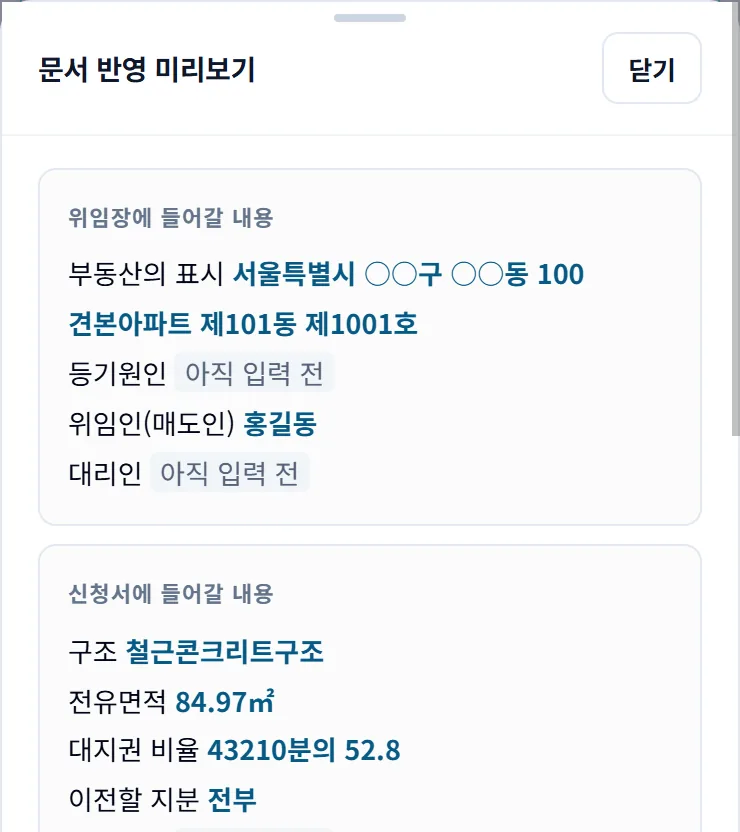
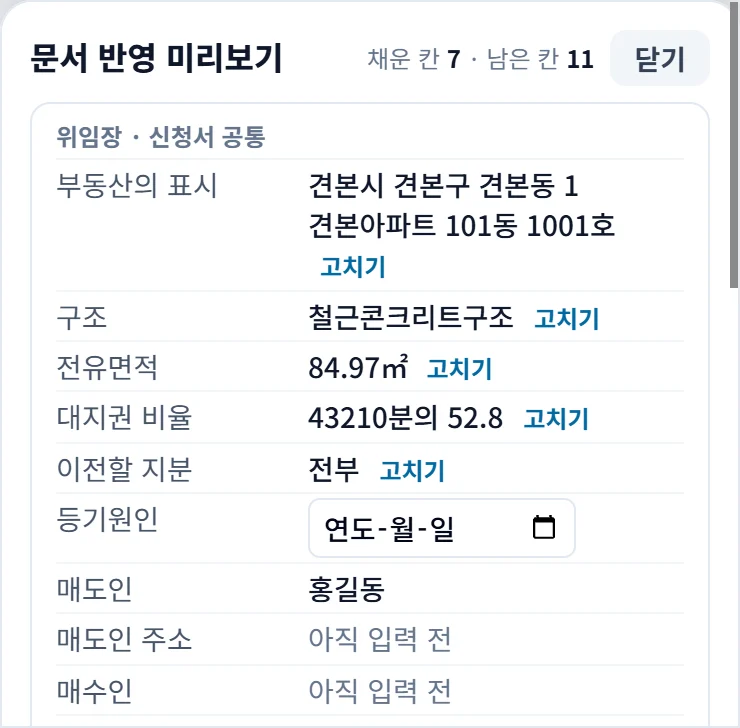
feat: 가이드 단계 그림에 브라우저 창 틀(점 3개 + 실제 사이트 주소) · 홈 시연 화면을 지금 서류 작성 화면으로 교체 — PC 바탕(1440px 화면 x55~1385·y418~1186 → 1800×1040)·휴대폰 첫 화면·판독 후·미리보기 시트(370×364로 변경)를 새로 찍고, 끌어다 놓기 칸·판독 중 표시·채워지는 6칸·집계(채운 칸 1→7 · 남은 칸 17→11, 실측)·휴대폰 막대·닫기 좌표를 새 화면 실측 위치로 다시 맞춤. 견본 값만 사용

diff --git a/index.html b/index.html
@@ -152,19 +152,21 @@ header{background:var(--bg)}
 /* 시연 레이어 — 좌표는 캡처 1800×1040 기준 %. 글자 크기는 프레임 폭(cqw) 비례라 캡처 글씨와 같이 줄어든다 */
 #hapanel-transfer{position:relative;container-type:inline-size}
 .hd{position:absolute;inset:0;pointer-events:none;font-family:inherit}
-.hd-dz{position:absolute;left:3.1%;top:25%;width:59.8%;height:38.5%;border:2px solid #0369A1;border-radius:1cqw;background:rgba(3,105,161,.07);opacity:0;transition:opacity .25s}
+.hd-dz{position:absolute;left:7.22%;top:16.93%;width:53.98%;height:27.99%;border:2px solid #0369A1;border-radius:1cqw;background:rgba(3,105,161,.07);opacity:0;transition:opacity .25s}
 .hd-file{position:absolute;left:80%;top:88%;display:flex;align-items:flex-start;opacity:0;transform:translate(-50%,-50%);transition:left 1.1s cubic-bezier(.4,0,.2,1),top 1.1s cubic-bezier(.4,0,.2,1),opacity .3s,transform .3s}
 .hd-doc{display:inline-flex;align-items:center;gap:.6cqw;background:#fff;border:1px solid #CBD5E1;border-radius:.6cqw;padding:.6cqw 1cqw;font-size:1.05cqw;font-weight:700;color:#0F172A;white-space:nowrap;box-shadow:0 6px 16px rgba(15,23,42,.18)}
 .hd-doc i{font-style:normal;font-size:.8cqw;font-weight:800;color:#fff;background:#DC2626;border-radius:.3cqw;padding:.15cqw .4cqw}
 .hd-cur{width:2cqw;height:2cqw;margin:1.6cqw 0 0 -.6cqw;filter:drop-shadow(0 1px 1px rgba(0,0,0,.25))}
-.hd-st{position:absolute;left:33%;top:58.5%;transform:translate(-50%,-50%);background:#0F172A;color:#fff;font-size:1.05cqw;font-weight:700;padding:.5cqw 1.2cqw;border-radius:2cqw;white-space:nowrap;opacity:0;transition:opacity .25s}
+.hd-st{position:absolute;left:34.21%;top:30.92%;transform:translate(-50%,-50%);background:#0F172A;color:#fff;font-size:1.05cqw;font-weight:700;padding:.5cqw 1.2cqw;border-radius:2cqw;white-space:nowrap;opacity:0;transition:opacity .25s}
 .hd-v{position:absolute;height:3.1%;min-width:6.8%;display:flex;align-items:center;padding:0 .3cqw;background:#FCFCFB;color:#075985;font-size:1.12cqw;font-weight:700;white-space:nowrap;opacity:0;transform:translateY(.3cqw);transition:opacity .3s,transform .3s}
 .hd-n{position:absolute;right:2.6%;width:3.6%;height:3.2%;display:flex;align-items:center;justify-content:flex-end;background:#fff;font-family:'SFMono-Regular',Consolas,monospace;font-size:1.05cqw;font-weight:700;opacity:0}
-.hd-n.b{color:#047857}.hd-n.a{color:#B45309}.hd-n.c{color:#64748B}
+.hd-n.b,.hd-n.a{color:#0F172A}
+.hd-v{width:16.39%;height:2.6%;background:#fff;color:#0F172A;font-size:1.05cqw;font-weight:500;padding:0}
+.hd-n{right:auto!important;width:1.3%!important;height:2.4%!important;justify-content:flex-start!important;font-family:inherit!important;font-size:.95cqw!important;font-weight:700!important}
 .hd-tag{position:absolute;right:1.2%;top:1.2%;font-size:.9cqw;font-weight:700;color:#475569;background:rgba(241,245,249,.92);border:1px solid #CBD5E1;border-radius:1cqw;padding:.25cqw .8cqw;opacity:0;transition:opacity .3s}
 .hd.on .hd-tag,.hd.on .hd-n{opacity:1}
 .hd.over .hd-dz{opacity:1}
-.hd.go .hd-file{left:33%;top:41%;opacity:1}
+.hd.go .hd-file{left:34.21%;top:30.92%;opacity:1}
 .hd.drop .hd-file{opacity:0;transform:translate(-50%,-50%) scale(.6)}
 .hd.read .hd-st{opacity:1}
 .hd-v.in{opacity:1;transform:none}
@@ -176,17 +178,17 @@ header{background:var(--bg)}
   .hdm{display:block;position:absolute;inset:0;pointer-events:none;overflow:hidden}
   .ha-frame .hdm img{position:absolute;left:0;width:100%;aspect-ratio:auto}
   .hdm-b{top:0;height:100%;opacity:0;transition:opacity .35s}
-  .hdm-dz{position:absolute;left:6.8%;top:23.2%;width:86.5%;height:50.8%;border:2px solid #0369A1;border-radius:10px;background:rgba(3,105,161,.08);opacity:0;transition:opacity .25s}
+  .hdm-dz{position:absolute;left:8.38%;top:23.08%;width:83.24%;height:45.38%;border:2px solid #0369A1;border-radius:10px;background:rgba(3,105,161,.08);opacity:0;transition:opacity .25s}
   .hdm-file{position:absolute;left:50%;top:106%;transform:translate(-50%,-50%);transition:top 1s cubic-bezier(.4,0,.2,1),opacity .3s,transform .3s}
   .hdm-doc{display:inline-flex;align-items:center;gap:6px;background:#fff;border:1px solid #CBD5E1;border-radius:8px;padding:7px 10px;font-size:12px;font-weight:700;color:#0F172A;white-space:nowrap;box-shadow:0 6px 16px rgba(15,23,42,.18)}
   .hdm-doc i{font-style:normal;font-size:12px;font-weight:800;color:#fff;background:#DC2626;border-radius:4px;padding:1px 5px}
-  .hdm-st{position:absolute;left:50%;top:45%;transform:translate(-50%,-50%);background:#0F172A;color:#fff;font-size:12px;font-weight:700;padding:6px 14px;border-radius:16px;white-space:nowrap;opacity:0;transition:opacity .25s}
-  .hdm-pr{position:absolute;left:10.8%;top:68.1%;width:78.4%;height:5px;background:#E2E8F0;border-radius:3px;overflow:hidden;opacity:0}
+  .hdm-st{position:absolute;left:50%;top:45.77%;transform:translate(-50%,-50%);background:#0F172A;color:#fff;font-size:12px;font-weight:700;padding:6px 14px;border-radius:16px;white-space:nowrap;opacity:0;transition:opacity .25s}
+  .hdm-pr{position:absolute;left:12%;top:63.1%;width:76%;height:5px;background:#E2E8F0;border-radius:3px;overflow:hidden;opacity:0}
   .hdm-pr i{display:block;height:100%;width:0;background:#0369A1;transition:width 1.3s linear}
-  .hdm-tap{position:absolute;left:88.1%;top:93%;width:44px;height:44px;margin:-22px 0 0 -22px;border-radius:50%;background:rgba(255,255,255,.6);opacity:0}
+  .hdm-tap{position:absolute;left:85.68%;top:90.19%;width:44px;height:44px;margin:-22px 0 0 -22px;border-radius:50%;background:rgba(255,255,255,.6);opacity:0}
   .hdm-dim{position:absolute;inset:0;background:rgba(15,23,42,.45);opacity:0;transition:opacity .3s}
-  .hdm-sh{top:20%;height:80%;transform:translateY(100%);transition:transform .45s cubic-bezier(.2,.8,.2,1)}
-  .hdm.go .hdm-file{top:48%}
+  .hdm-sh{top:30%;height:70%;transform:translateY(100%);transition:transform .45s cubic-bezier(.2,.8,.2,1)}
+  .hdm.go .hdm-file{top:45.8%}
   .hdm.over .hdm-dz{opacity:1}
   .hdm.drop .hdm-file{opacity:0;transform:translate(-50%,-50%) scale(.6)}
   .hdm.read .hdm-st,.hdm.read .hdm-pr{opacity:1}
@@ -201,8 +203,8 @@ header{background:var(--bg)}
   .hdm-hit{display:block;position:absolute;z-index:2;background:transparent;border:0;padding:0;cursor:pointer;-webkit-tap-highlight-color:transparent;border-radius:12px}
   .hdm-hit[hidden]{display:none}
   .hdm-hit:focus-visible{outline:2px solid #7DD3FC;outline-offset:-2px}
-  .hdm-see{left:2.7%;top:88.1%;width:94.6%;height:10%}
-  .hdm-x{left:81.4%;top:23.1%;width:13.5%;height:6.9%}
+  .hdm-see{left:3.24%;top:85%;width:93.51%;height:10.38%}
+  .hdm-x{left:82.43%;top:32.88%;width:13.51%;height:5.38%}
   .hdm-ctl{display:flex;gap:6px;position:absolute;right:8px;top:6px;z-index:3;align-items:center}
   .hdm-tag{font-size:12px;font-weight:700;color:#475569;background:rgba(241,245,249,.94);border:1px solid #CBD5E1;border-radius:10px;padding:2px 8px}
 }
@@ -820,38 +822,37 @@ html.mnav-open,html.mnav-open body{overflow:hidden}
         <div class="ha-panel" role="tabpanel" id="hapanel-transfer" aria-labelledby="hatab-transfer">
           <!-- 700px 아래에서는 세로 화면으로 바꾼다 — 가로 캡처를 335px 로 줄이면 글자가 읽히지 않는다(R2-A04와 같은 결함). -->
           <picture>
-            <source media="(max-width:700px)" srcset="hero_app_transfer_m@1x.webp?v=1010b 370w, hero_app_transfer_m.webp?v=1010b 740w" sizes="calc(100vw - 40px)">
-            <source srcset="hero_app_transfer@1x.webp?v=1010b 900w, hero_app_transfer.webp?v=1010b 1800w" sizes="(max-width:1240px) calc(100vw - 40px), 1160px">
-            <img src="hero_app_transfer@1x.webp?v=1010b" width="900" height="520" alt="셀프등기24 서류 작성 화면. 왼쪽에 등기사항전부증명서를 올리는 칸이 있고, 오른쪽 문서 반영 미리보기 패널에 위임장·신청서에 들어갈 항목과 아직 비어 있는 항목 수가 표시된다." decoding="async">
+            <source media="(max-width:700px)" srcset="hero_app_transfer_m@1x.webp?v=1024 370w, hero_app_transfer_m.webp?v=1024 740w" sizes="calc(100vw - 40px)">
+            <source srcset="hero_app_transfer@1x.webp?v=1024 900w, hero_app_transfer.webp?v=1024 1800w" sizes="(max-width:1240px) calc(100vw - 40px), 1160px">
+            <img src="hero_app_transfer@1x.webp?v=1024" width="900" height="520" alt="셀프등기24 서류 작성 화면. 왼쪽에 등기사항전부증명서를 올리는 칸이 있고, 오른쪽 문서 반영 미리보기 패널에 위임장·신청서에 들어갈 항목과 아직 비어 있는 항목 수가 표시된다." decoding="async">
           </picture>
           <!-- 시연 레이어(데스크톱 전용): 등기부 PDF를 끌어다 놓으면 오른쪽 미리보기가 채워지는 모습.
-               좌표는 hero_app_transfer 캡처(1800×1040) 기준 %. 캡처를 바꾸면 좌표도 다시 잰다.
+               좌표는 hero_app_transfer 캡처(1800×1040 = 서류 작성 화면 1440px의 x55~1385·y418~1186, 10/24) 기준 %. 캡처를 바꾸면 좌표도 다시 잰다.
                값은 견본이다 — 실제 이용자 정보가 아니다. -->
           <div class="hd" aria-hidden="true">
             <div class="hd-dz"></div>
             <div class="hd-file"><span class="hd-doc"><i>PDF</i>등기사항전부증명서.pdf</span><svg class="hd-cur" viewBox="0 0 24 24"><path d="M4 2l16 11-7 1.5L9.5 21z" fill="#0F172A" stroke="#fff" stroke-width="1.5" stroke-linejoin="round"/></svg></div>
             <div class="hd-st"></div>
-            <span class="hd-v" style="left:76.5%;top:17.9%">견본아파트 제101동 제1001호</span>
-            <span class="hd-v" style="left:77%;top:25.1%">홍길동</span>
-            <span class="hd-v" style="left:72.1%;top:41.4%">철근콘크리트구조</span>
-            <span class="hd-v" style="left:74.1%;top:45%">84.97㎡</span>
-            <span class="hd-v" style="left:75.5%;top:48.6%">43,210분의 52.8</span>
-            <span class="hd-v" style="left:77.5%;top:59.4%">1101-0000-000000</span>
-            <span class="hd-n b" style="top:68.9%">0</span>
-            <span class="hd-n a" style="top:72.9%">9</span>
-            <span class="hd-n c" style="top:76.9%">8</span>
+            <span class="hd-v" style="left:75.41%;top:11.98%">견본아파트 101동 1001호</span>
+            <span class="hd-v" style="left:75.41%;top:15.23%">철근콘크리트구조</span>
+            <span class="hd-v" style="left:75.41%;top:18.49%">84.97㎡</span>
+            <span class="hd-v" style="left:75.41%;top:21.88%">43210분의 52.8</span>
+            <span class="hd-v" style="left:75.41%;top:33.07%">홍길동</span>
+            <span class="hd-v" style="left:75.41%;top:65.49%">1101-0000-000000</span>
+            <span class="hd-n b" style="left:87.2%;top:4.17%;width:.95%!important">1</span>
+            <span class="hd-n a" style="left:91.73%;top:4.17%;width:2%!important">17</span>
             <span class="hd-tag">시연 · 견본 값</span>
           </div>
           <!-- 모바일 시연 레이어: PDF가 올라감 → 판독 → 하단 「문서 반영 미리보기」 막대 → 시트. 값은 견본이다. -->
           <div class="hdm" aria-hidden="true">
-            <img class="hdm-b" src="hero_app_transfer_m2@1x.webp?v=1010b" srcset="hero_app_transfer_m2@1x.webp?v=1010b 370w, hero_app_transfer_m2.webp?v=1010b 740w" sizes="calc(100vw - 40px)" width="370" height="520" alt="" loading="lazy" decoding="async">
+            <img class="hdm-b" src="hero_app_transfer_m2@1x.webp?v=1024" srcset="hero_app_transfer_m2@1x.webp?v=1024 370w, hero_app_transfer_m2.webp?v=1024 740w" sizes="calc(100vw - 40px)" width="370" height="520" alt="" loading="lazy" decoding="async">
             <div class="hdm-dz"></div>
             <div class="hdm-file"><span class="hdm-doc"><i>PDF</i>등기사항전부증명서.pdf</span></div>
             <div class="hdm-st">등기부를 읽는 중…</div>
             <div class="hdm-pr"><i></i></div>
             <span class="hdm-tap"></span>
             <div class="hdm-dim"></div>
-            <img class="hdm-sh" src="hero_app_transfer_m3@1x.webp?v=1010b" srcset="hero_app_transfer_m3@1x.webp?v=1010b 370w, hero_app_transfer_m3.webp?v=1010b 740w" sizes="calc(100vw - 40px)" width="370" height="416" alt="" loading="lazy" decoding="async">
+            <img class="hdm-sh" src="hero_app_transfer_m3@1x.webp?v=1024" srcset="hero_app_transfer_m3@1x.webp?v=1024 370w, hero_app_transfer_m3.webp?v=1024 740w" sizes="calc(100vw - 40px)" width="370" height="364" alt="" loading="lazy" decoding="async">
           </div>
           <button type="button" class="hdm-hit hdm-see" aria-label="문서 반영 미리보기 열기(견본)"></button>
           <button type="button" class="hdm-hit hdm-x" aria-label="미리보기 닫기" hidden></button>
@@ -1578,9 +1579,9 @@ function demoLoop(el, run, finish){
 (function(){
   var hd=document.querySelector('.hd'); if(!hd||!window.matchMedia) return;
   var rs=[].slice.call(hd.querySelectorAll('.hd-r')), vs=[].slice.call(hd.querySelectorAll('.hd-v')),
-      nb=hd.querySelector('.hd-n.b'), na=hd.querySelector('.hd-n.a'), nc=hd.querySelector('.hd-n.c'), st=hd.querySelector('.hd-st');
-  /* 집계는 실제 서류 작성 화면의 판독 전후 값(입력 0→11 · 빈칸 9→3 · 비워도 됨 8→3, 10/10 실측) */
-  function count(k){ var f=k/vs.length; nb.textContent=Math.round(11*f); na.textContent=9-Math.round(6*f); nc.textContent=8-Math.round(5*f); }
+      nb=hd.querySelector('.hd-n.b'), na=hd.querySelector('.hd-n.a'), st=hd.querySelector('.hd-st');
+  /* 집계는 실제 서류 작성 화면의 판독 전후 값(채운 칸 1→7 · 남은 칸 17→11, 10/24 실측) */
+  function count(k){ var f=k/vs.length; nb.textContent=1+Math.round(6*f); na.textContent=17-Math.round(6*f); }
   function reset(){ hd.className='hd'; rs.concat(vs).forEach(function(v){ v.classList.remove('in'); }); count(0); st.textContent=''; }
   function finish(){ hd.className='hd on read'; rs.concat(vs).forEach(function(v){ v.classList.add('in'); }); count(vs.length); st.textContent='등기부에서 칸을 채웠습니다'; }
   demoLoop(hd, function(at){

diff --git a/guide.html b/guide.html
@@ -652,6 +652,13 @@ details.txt li .tip em{font-style:normal;font-weight:800;margin-right:6px}
 .tt-go{display:flex;flex-wrap:wrap;align-items:center;gap:12px 16px;margin:56px 0 8px}
 .tt-cta{display:inline-flex;align-items:center;min-height:56px;padding:0 28px;border-radius:12px;background:var(--blue);color:#fff;font-size:16px;font-weight:700;text-decoration:none}
 .tt-go span{font-size:14px;color:var(--muted)}
+/* 단계 그림에 브라우저 창 틀(10/24 사용자 승인) — 위 막대(점 3개 + 실제 사이트 주소), 그림은 그 아래 */
+.tt-img{position:relative;padding-top:34px;border-color:#CBD5E1;box-shadow:0 1px 2px rgba(15,23,42,.06),0 24px 48px -28px rgba(15,23,42,.45)}
+.tt-img::before{content:"";position:absolute;inset:0 0 auto 0;height:34px;background:
+ radial-gradient(circle,#F87171 5px,transparent 5.5px) 14px 50%/12px 12px no-repeat,
+ radial-gradient(circle,#FBBF24 5px,transparent 5.5px) 32px 50%/12px 12px no-repeat,
+ radial-gradient(circle,#34D399 5px,transparent 5.5px) 50px 50%/12px 12px no-repeat,#F1F5F9;border-bottom:1px solid #E2E8F0}
+.tt-img::after{content:attr(data-url);position:absolute;top:7px;left:76px;right:16px;height:20px;border-radius:6px;background:#fff;border:1px solid #E2E8F0;font:500 12px/18px 'Noto Sans KR',sans-serif;color:#64748B;padding:0 10px;overflow:hidden;white-space:nowrap}
 @media(max-width:760px){.tt-steps{gap:44px}.tt{grid-template-columns:1fr;gap:16px}.tt-img{order:-1}.tt-t{font-size:24px;margin-top:12px}}
 
 /* 히어로 순서 지도 — 번호 원을 선으로 잇고, 위에 시점 괄호(잔금 전·온라인 / 잔금일 / 등기소 한 번). 마지막이 도착점 */
@@ -810,10 +817,10 @@ p.tb-credit{font-size:12px!important;color:#64748B!important}
   <h2 class="sec-title">무엇부터 하나요? 네 단계를 순서대로 하면 됩니다</h2>
 
   <ol class="tt-steps">
-  <li class="tt" id="card-1"><div class="tt-tx"><div class="tt-h"><span class="tt-n">1</span><span class="tt-w">잔금 전</span></div><h3 class="tt-t">서류 준비</h3><p class="tt-d">정부24에서 주민등록등본·토지대장·건축물대장을 무료로 발급합니다.</p><button type="button" class="tt-a" onclick="openShot('gov24',0)">화면 보며 따라 하기 →</button></div><figure class="tt-img"><img src="gover24_1.webp" alt="정부24 첫 화면 — 발급할 서류 4개 표시" loading="lazy"></figure></li>
-  <li class="tt" id="card-2"><div class="tt-tx"><div class="tt-h"><span class="tt-n">2</span><span class="tt-w">잔금 전</span></div><h3 class="tt-t">세금·채권 납부</h3><p class="tt-d">취득세·국민주택채권·인지·수수료를 온라인으로 내고, 받은 번호를 적어 둡니다.</p><button type="button" class="tt-a" onclick="openShot('wetax',0)">화면 보며 따라 하기 →</button></div><figure class="tt-img"><img src="wetax_1.webp" alt="위택스 첫 화면" loading="lazy"></figure></li>
-  <li class="tt" id="card-3"><div class="tt-tx"><div class="tt-h"><span class="tt-n">3</span><span class="tt-w">잔금일</span></div><h3 class="tt-t">위임장 날인·서류 받기</h3><p class="tt-d">위임장에 매도인 인감을 받고, 인감증명서·초본·등기필정보를 받습니다.</p><button type="button" class="tt-a" onclick="openShot('seal',0)">날인 위치 보기 →</button></div><figure class="tt-img"><img src="sample_wimi.png" alt="위임장 견본(가상 인물)" loading="lazy"></figure></li>
-  <li class="tt" id="card-4"><div class="tt-tx"><div class="tt-h"><span class="tt-n">4</span><span class="tt-w">등기소 한 번</span></div><h3 class="tt-t">신청서 출력·등기소 접수</h3><p class="tt-d">입력한 정보로 신청서가 자동완성되고, 관할 등기소에 한 번 제출하면 됩니다.</p><a class="tt-a" href="normal_form.html">서류 작성 시작하기 →</a></div><figure class="tt-img"><img src="hero_app_transfer.webp" alt="셀프등기24 서류 작성 화면" loading="lazy"></figure></li>
+  <li class="tt" id="card-1"><div class="tt-tx"><div class="tt-h"><span class="tt-n">1</span><span class="tt-w">잔금 전</span></div><h3 class="tt-t">서류 준비</h3><p class="tt-d">정부24에서 주민등록등본·토지대장·건축물대장을 무료로 발급합니다.</p><button type="button" class="tt-a" onclick="openShot('gov24',0)">화면 보며 따라 하기 →</button></div><figure class="tt-img" data-url="gov.kr"><img src="gover24_1.webp" alt="정부24 첫 화면 — 발급할 서류 4개 표시" loading="lazy"></figure></li>
+  <li class="tt" id="card-2"><div class="tt-tx"><div class="tt-h"><span class="tt-n">2</span><span class="tt-w">잔금 전</span></div><h3 class="tt-t">세금·채권 납부</h3><p class="tt-d">취득세·국민주택채권·인지·수수료를 온라인으로 내고, 받은 번호를 적어 둡니다.</p><button type="button" class="tt-a" onclick="openShot('wetax',0)">화면 보며 따라 하기 →</button></div><figure class="tt-img" data-url="wetax.go.kr"><img src="wetax_1.webp" alt="위택스 첫 화면" loading="lazy"></figure></li>
+  <li class="tt" id="card-3"><div class="tt-tx"><div class="tt-h"><span class="tt-n">3</span><span class="tt-w">잔금일</span></div><h3 class="tt-t">위임장 날인·서류 받기</h3><p class="tt-d">위임장에 매도인 인감을 받고, 인감증명서·초본·등기필정보를 받습니다.</p><button type="button" class="tt-a" onclick="openShot('seal',0)">날인 위치 보기 →</button></div><figure class="tt-img" data-url="위임장 견본 · 가상 인물"><img src="sample_wimi.png" alt="위임장 견본(가상 인물)" loading="lazy"></figure></li>
+  <li class="tt" id="card-4"><div class="tt-tx"><div class="tt-h"><span class="tt-n">4</span><span class="tt-w">등기소 한 번</span></div><h3 class="tt-t">신청서 출력·등기소 접수</h3><p class="tt-d">입력한 정보로 신청서가 자동완성되고, 관할 등기소에 한 번 제출하면 됩니다.</p><a class="tt-a" href="normal_form.html">서류 작성 시작하기 →</a></div><figure class="tt-img" data-url="selfregi24.com"><img src="hero_app_transfer.webp" alt="셀프등기24 서류 작성 화면" loading="lazy"></figure></li>
 </ol>
 <div class="tt-go"><a class="tt-cta" href="normal_form.html">서류 작성 시작하기 →</a><span>등기부 한 장으로 시작 · 입력과 안내는 무료</span></div>
   <details class="all">
